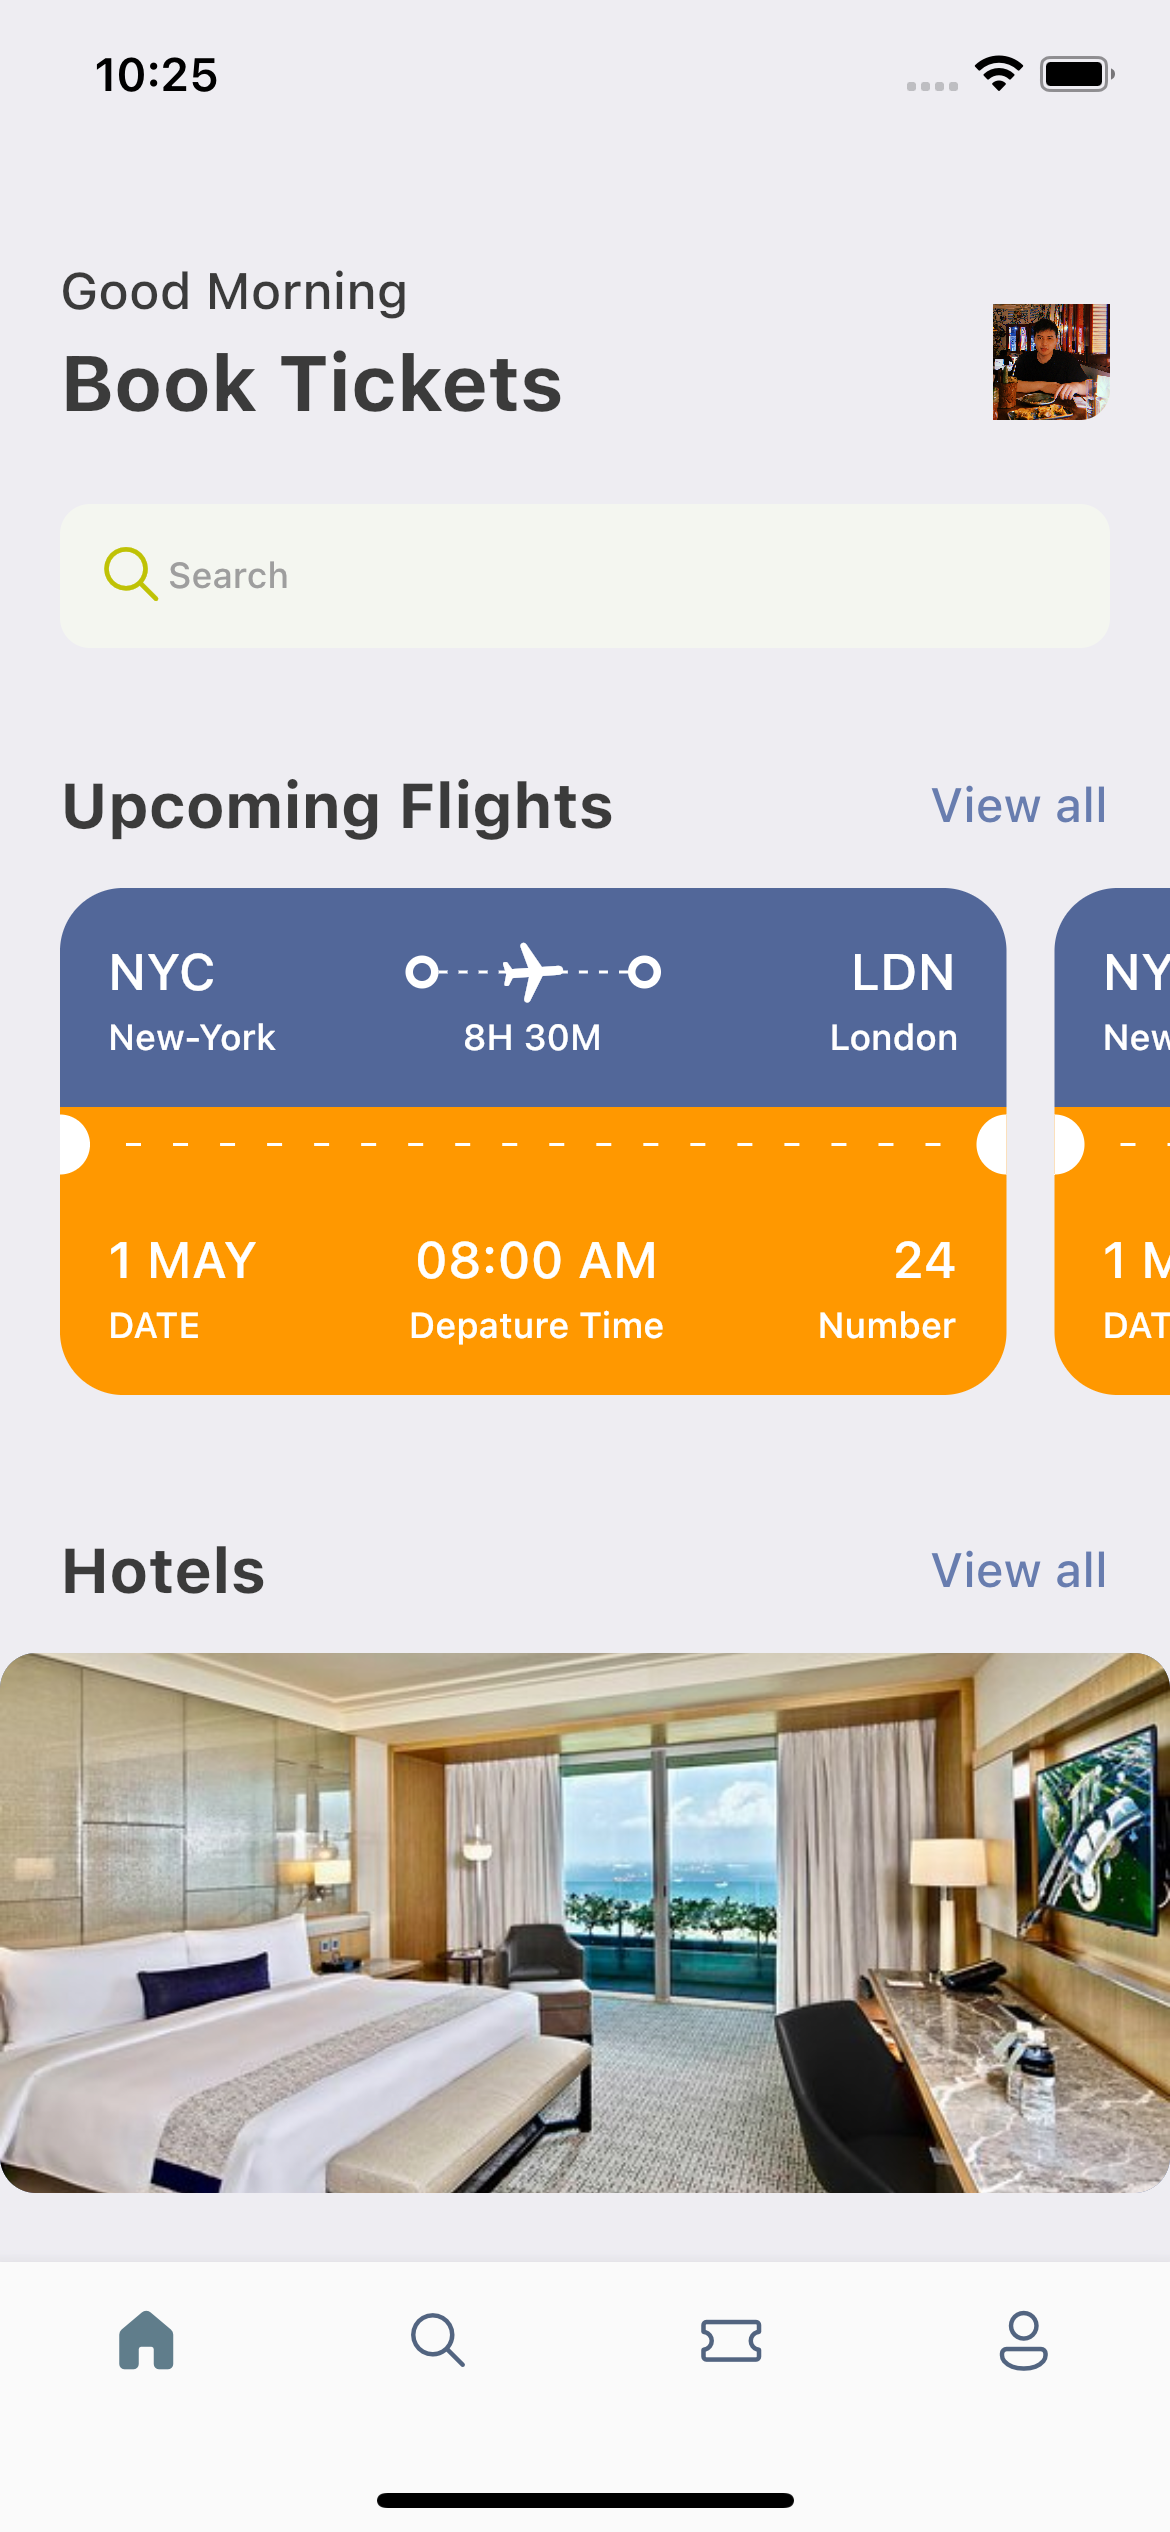
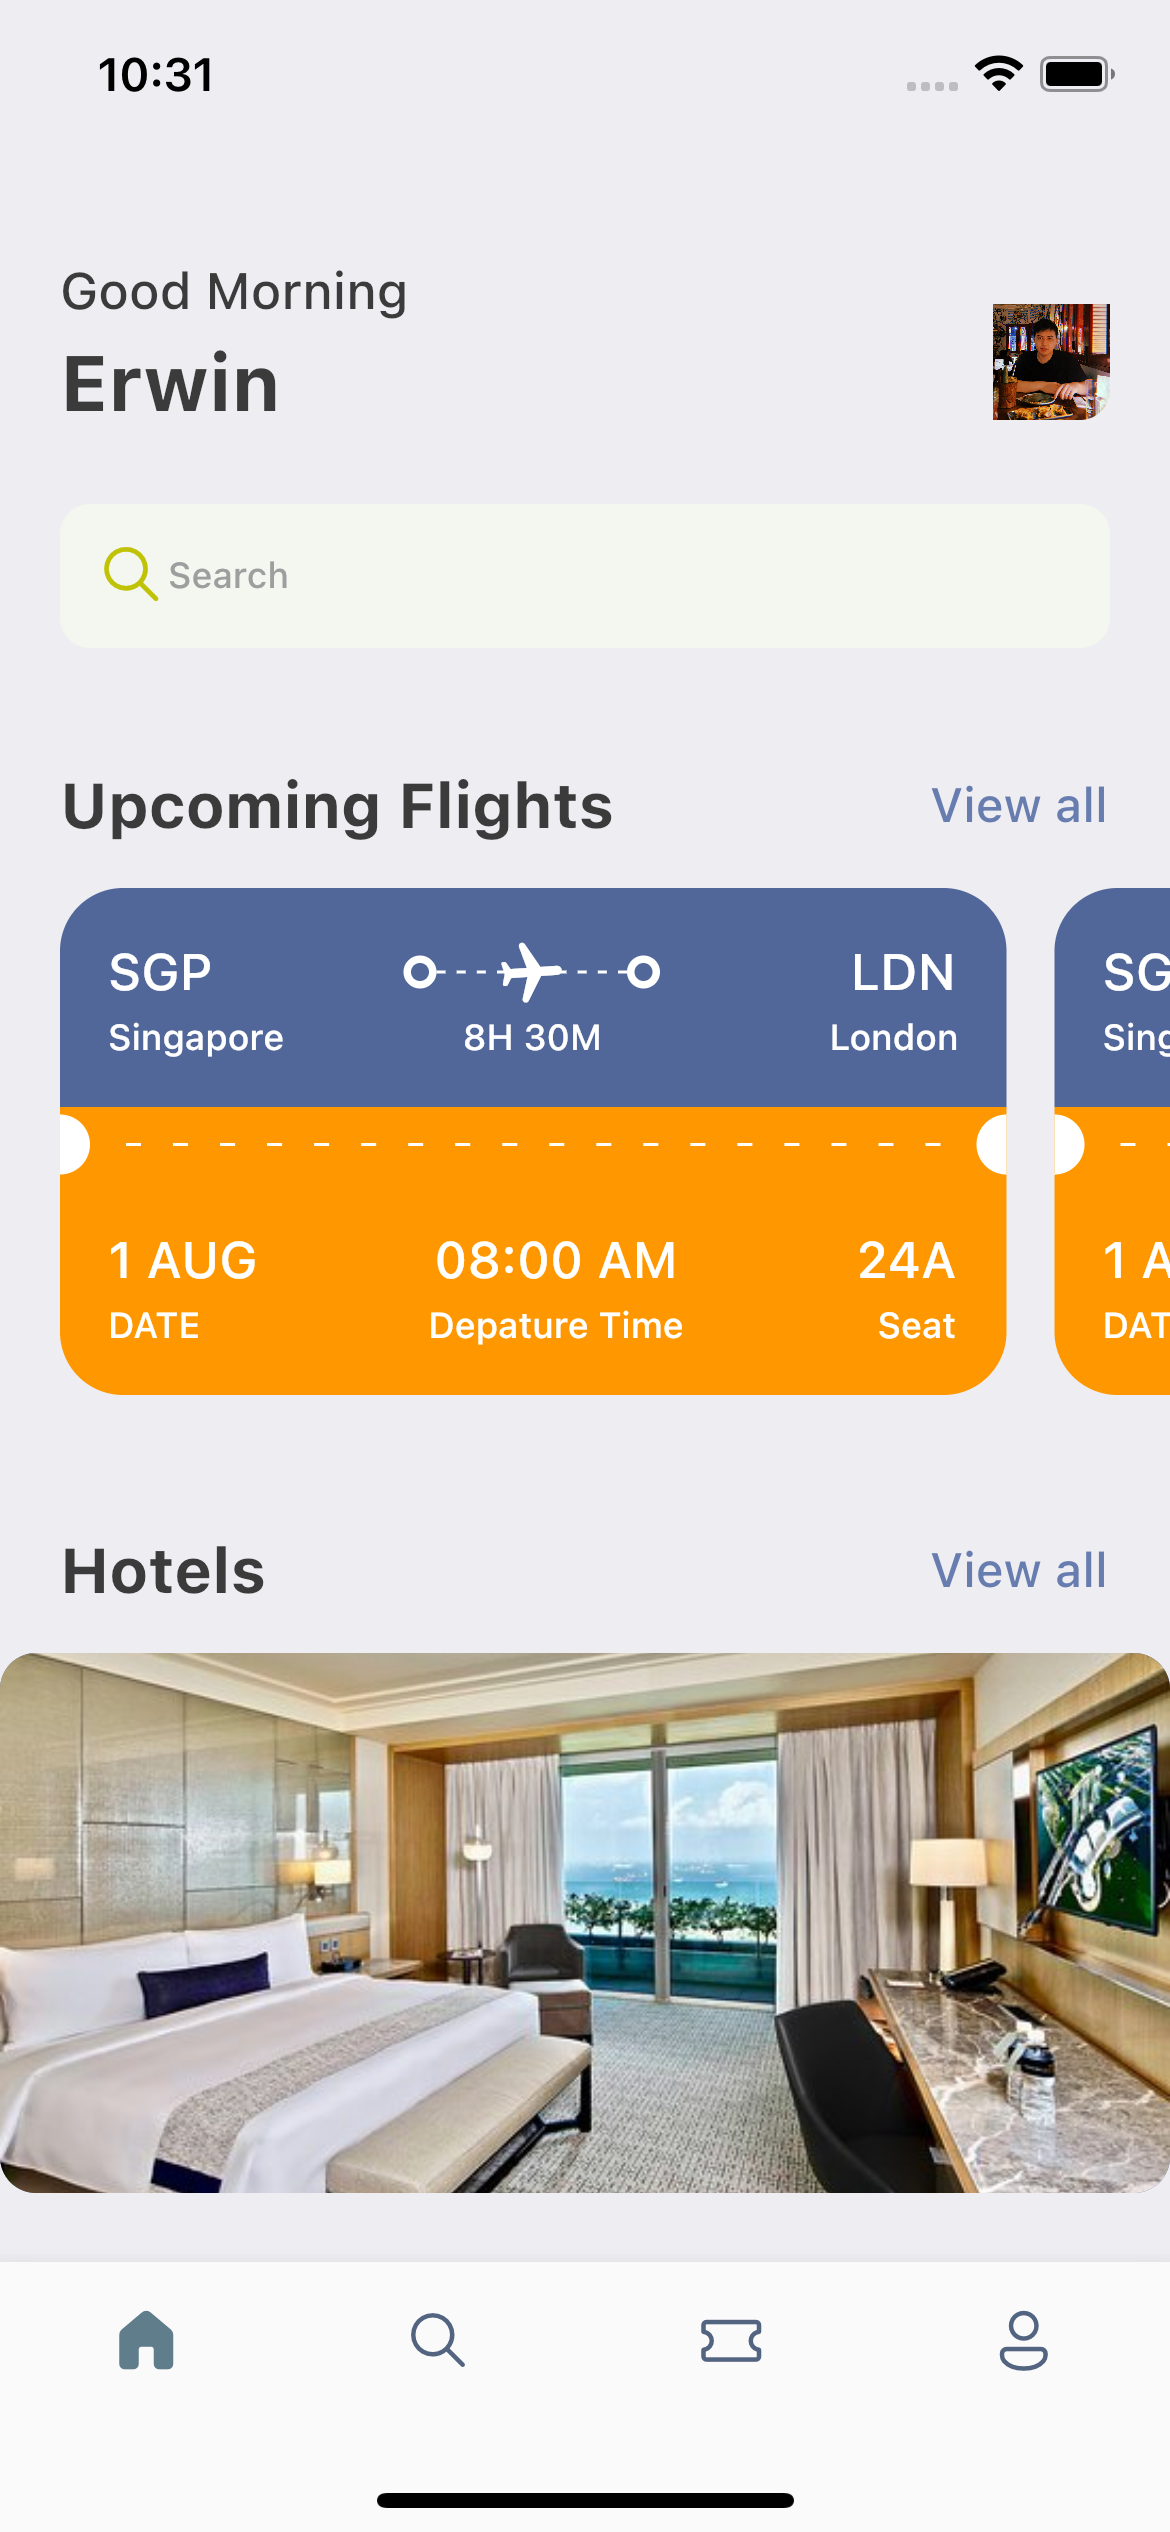
Update copy

diff --git a/lib/screens/ticket_view.dart b/lib/screens/ticket_view.dart
@@ -32,7 +32,7 @@ class TicketView extends StatelessWidget {
                 children: [
                   Row(
                     children: [
-                      Text("NYC",
+                      Text("SGP",
                           style: Styles.headLineStyle3
                               .copyWith(color: Colors.white)),
                       const Spacer(),
@@ -88,7 +88,7 @@ class TicketView extends StatelessWidget {
                     children: [
                       SizedBox(
                         width: 100,
-                        child: Text("New-York",
+                        child: Text("Singapore",
                             style: Styles.headLineStyle4
                                 .copyWith(color: Colors.white)),
                       ),
@@ -175,7 +175,7 @@ class TicketView extends StatelessWidget {
                       Column(
                         crossAxisAlignment: CrossAxisAlignment.start,
                         children: [
-                          Text("1 MAY", style: Styles.headLineStyle3.copyWith(color: Colors.white),),
+                          Text("1 AUG", style: Styles.headLineStyle3.copyWith(color: Colors.white),),
                           const Gap(5),
                           Text("DATE", style: Styles.headLineStyle4.copyWith(color: Colors.white),)
                         ],
@@ -191,9 +191,9 @@ class TicketView extends StatelessWidget {
                       Column(
                         crossAxisAlignment: CrossAxisAlignment.end,
                         children: [
-                          Text("24", style: Styles.headLineStyle3.copyWith(color: Colors.white),),
+                          Text("24A", style: Styles.headLineStyle3.copyWith(color: Colors.white),),
                           const Gap(5),
-                          Text("Number", style: Styles.headLineStyle4.copyWith(color: Colors.white),)
+                          Text("Seat", style: Styles.headLineStyle4.copyWith(color: Colors.white),)
                         ],
                       ),
                     ],

diff --git a/lib/screens/home_screen.dart b/lib/screens/home_screen.dart
@@ -30,7 +30,7 @@ class HomeScreen extends StatelessWidget {
                           ),
                           const Gap(5),
                           Text(
-                            "Book Tickets",
+                            "Erwin",
                             style: Styles.headLineStyle1,
                           ),
                         ],
